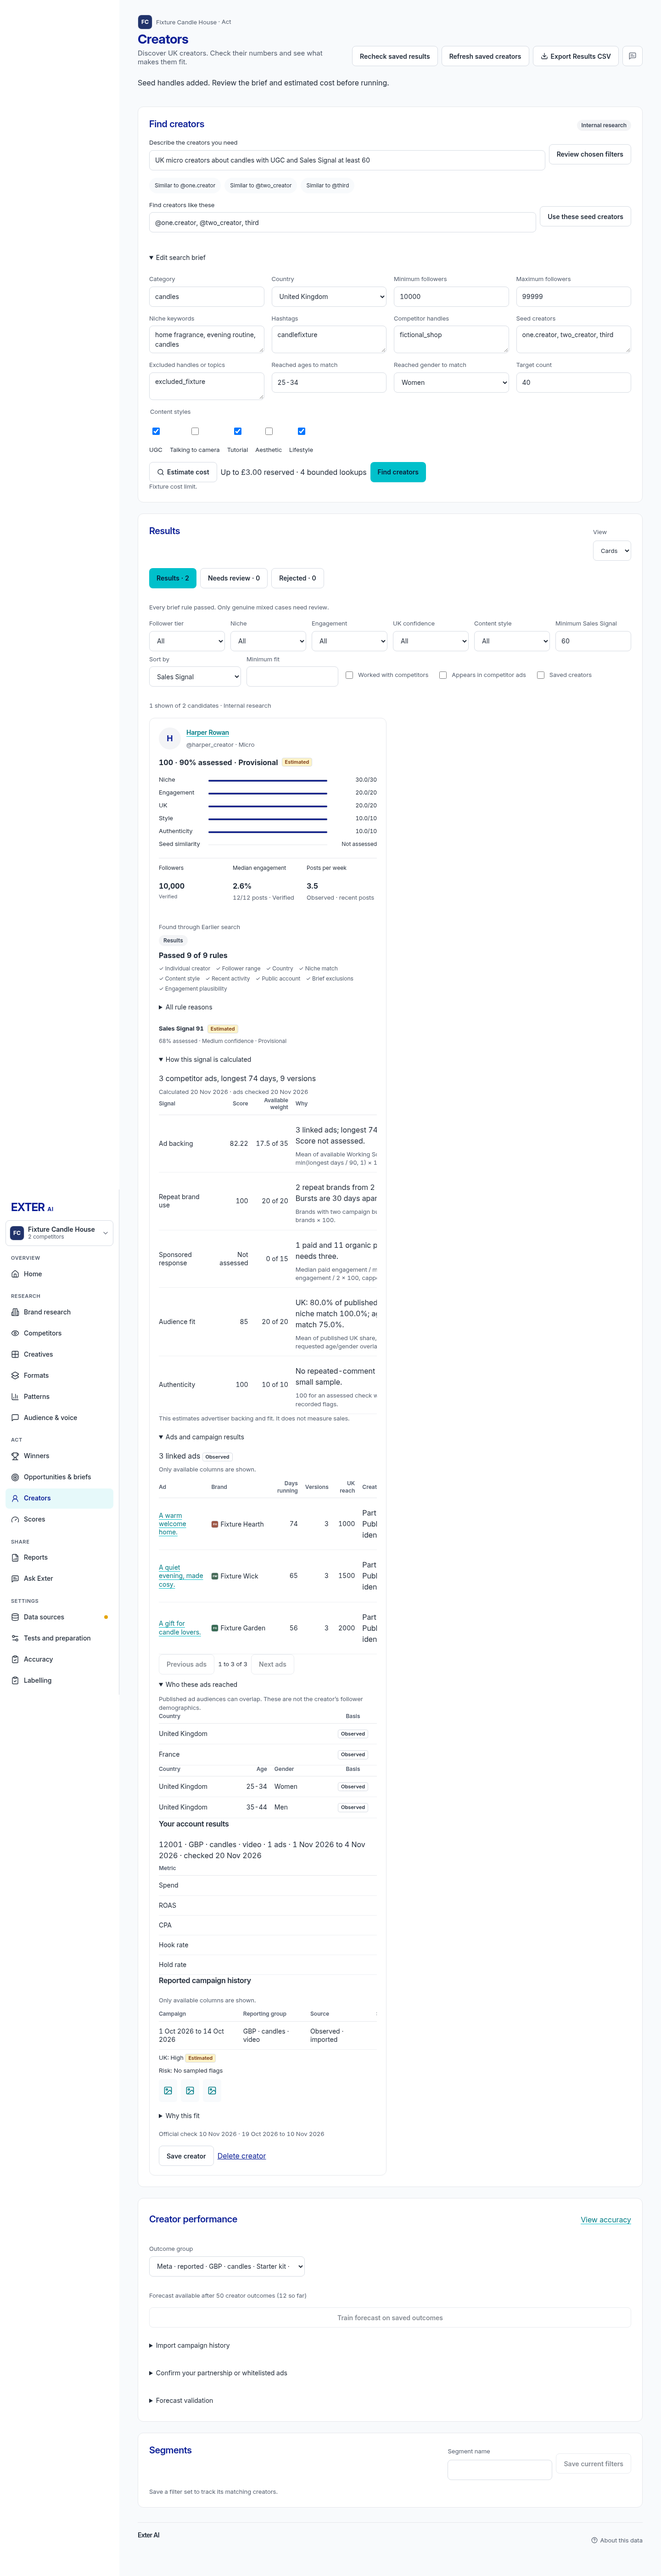
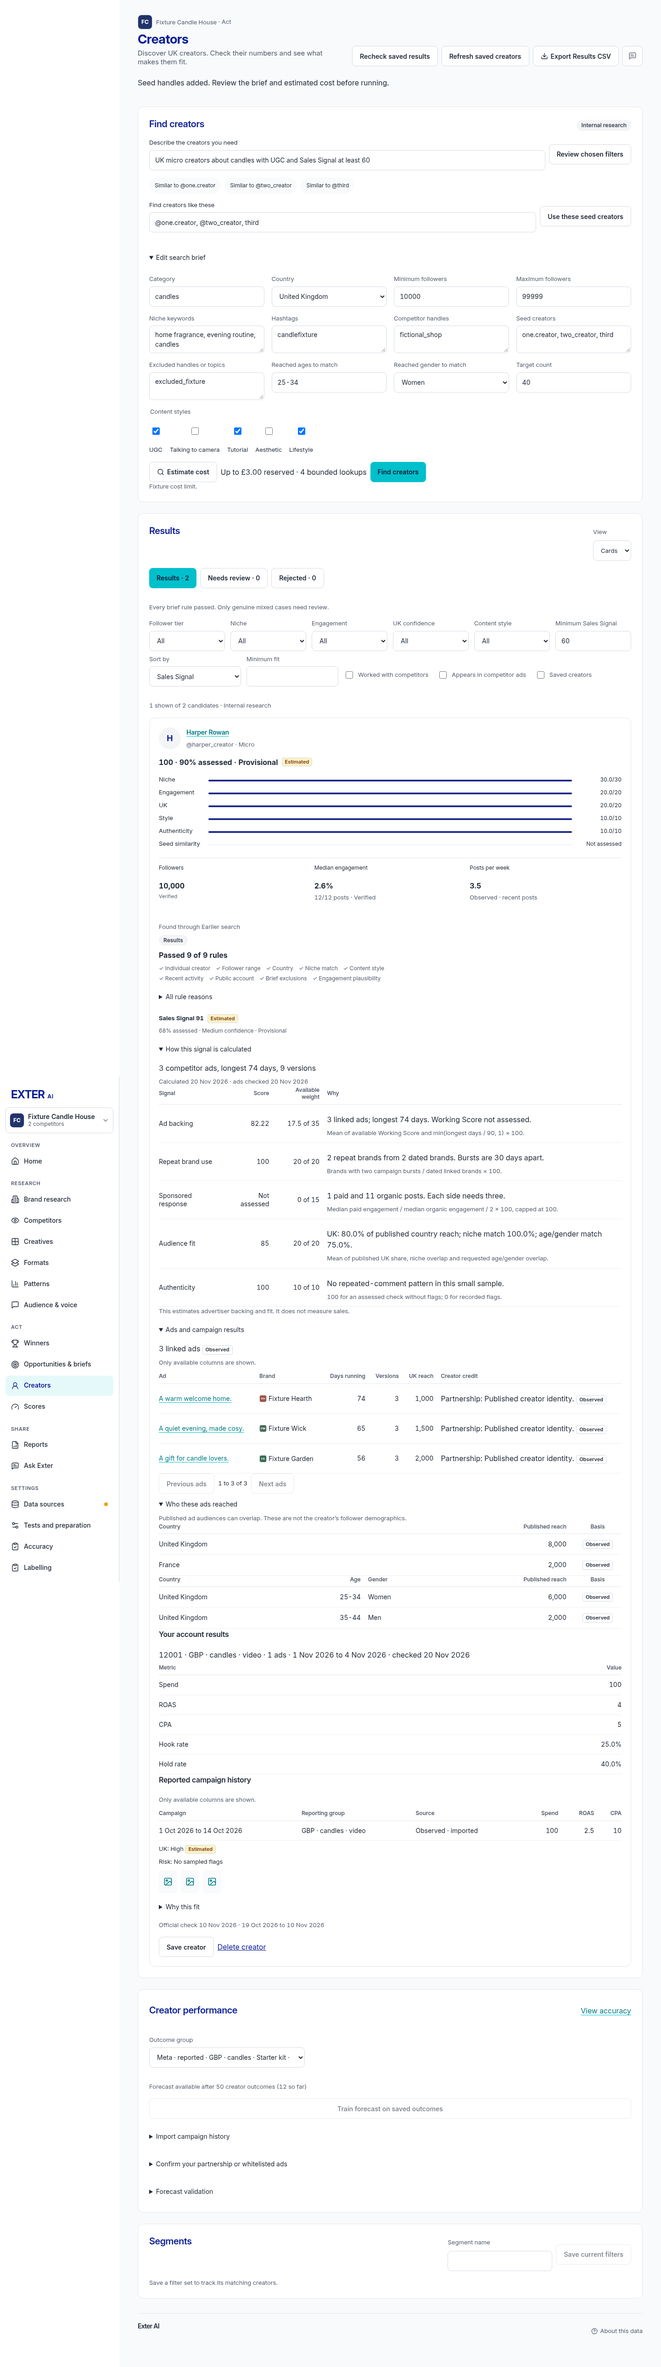
fix(CP-02): expand creator research tables for readable results

diff --git a/src/components/workspace/CreatorPerformance.tsx b/src/components/workspace/CreatorPerformance.tsx
@@ -20,15 +20,15 @@ export function CreatorPerformanceDetailView({workspaceId,handle,signal}:{worksp
  useEffect(()=>{if(!open)return;const controller=new AbortController();setError('');api<CreatorPerformanceDetail>(`/api/creator-performance/creator?${new URLSearchParams({workspaceId,handle,offset:String(offset)})}`,undefined,{signal:controller.signal}).then(setValue).catch(e=>{if(!controller.signal.aborted)setError(e.message);});return()=>controller.abort();},[open,workspaceId,handle,offset]);
  return <div className="creator-performance-detail"><CreatorSalesBreakdown signal={signal}/><details onToggle={e=>setOpen(e.currentTarget.open)}><summary>Ads and campaign results</summary>{error?<p role="alert">{error}</p>:!value?<p className="reference-muted">Reading saved ad results…</p>:<>
  {!value.ads.length?<p className="reference-muted">No ads directly credit this creator yet.</p>:<><p>{value.totalAds.toLocaleString('en-GB')} linked ads <DataLabel basis="Observed"/></p><DataTable caption="Ads featuring this creator" basis="Observed" showBasis={false} rows={value.ads} rowKey={r=>r.brandId+':'+r.adId} columns={[
- {key:'ad',label:'Ad',value:r=>r.title,render:r=><a href={`/?view=creative&brandId=${encodeURIComponent(workspaceId)}&id=${encodeURIComponent(r.adId)}`}>{r.title}</a>},{key:'brand',label:'Brand',value:r=>r.brandName,render:r=><BrandName name={r.brandName} size={16}/>},{key:'days',label:'Days running',align:'number',value:r=>r.days},{key:'versions',label:'Versions',align:'number',value:r=>r.versions},{key:'reach',label:'UK reach',align:'number',value:r=>countryReach(r.reach??undefined)},{key:'working',label:'Working Score',align:'number',value:r=>r.workingScore},{key:'proof',label:'Creator credit',value:r=>r.credits.map(c=>c.kind).join(', '),render:r=><>{r.credits.map((c,i)=><p key={i}>{c.kind}: {c.quote} <DataLabel basis={c.basis}/>{c.seconds!==null?` · ${Math.floor(c.seconds/60)}:${String(Math.floor(c.seconds%60)).padStart(2,'0')}`:''}</p>)}</>}
+ {key:'ad',label:'Ad',value:r=>r.title,render:r=><a href={`/?view=creative&brandId=${encodeURIComponent(workspaceId)}&id=${encodeURIComponent(r.adId)}`}>{r.title}</a>},{key:'brand',label:'Brand',value:r=>r.brandName,render:r=><BrandName name={r.brandName} size={16}/>},{key:'days',label:'Days running',align:'number',value:r=>r.days,render:r=>number(r.days)},{key:'versions',label:'Versions',align:'number',value:r=>r.versions,render:r=>number(r.versions)},{key:'reach',label:'UK reach',align:'number',value:r=>countryReach(r.reach??undefined),render:r=>number(countryReach(r.reach??undefined))},{key:'working',label:'Working Score',align:'number',value:r=>r.workingScore},{key:'proof',label:'Creator credit',value:r=>r.credits.map(c=>c.kind).join(', '),render:r=><>{r.credits.map((c,i)=><p key={i}>{c.kind}: {c.quote} <DataLabel basis={c.basis}/>{c.seconds!==null?` · ${Math.floor(c.seconds/60)}:${String(Math.floor(c.seconds%60)).padStart(2,'0')}`:''}</p>)}</>}
  ]}/><div className="reference-actions"><button className="button secondary" disabled={!offset} onClick={()=>setOffset(Math.max(0,offset-48))}>Previous ads</button><span>{offset+1} to {offset+value.ads.length} of {value.totalAds}</span><button className="button secondary" disabled={offset+48>=value.totalAds} onClick={()=>setOffset(offset+48)}>Next ads</button></div></>}
- <details><summary>Who these ads reached</summary><p className="reference-muted">Published ad audiences can overlap. These are not the creator’s follower demographics.</p>{!(value.signal?.stats.countries.length||value.signal?.stats.demographics.length)?<p className="reference-muted">No country, age or gender reach is published for these ads.</p>:<><DataTable caption="Published reach by country" rows={value.signal?.stats.countries??[]} rowKey={r=>r.country} basis="Observed" columns={[{key:'country',label:'Country',value:r=>countryName(r.country)},{key:'reach',label:'Published reach',align:'number',value:r=>r.reach}]}/><DataTable caption="Published reach by age and gender" rows={value.signal?.stats.demographics??[]} rowKey={r=>`${r.country}:${r.age}:${r.gender}`} basis="Observed" columns={[{key:'country',label:'Country',value:r=>countryName(r.country)},{key:'age',label:'Age',value:r=>r.age},{key:'gender',label:'Gender',value:r=>r.gender==='female'?'Women':r.gender==='male'?'Men':'Not specified'},{key:'reach',label:'Published reach',align:'number',value:r=>r.reach}]}/></>}</details>
+ <details><summary>Who these ads reached</summary><p className="reference-muted">Published ad audiences can overlap. These are not the creator’s follower demographics.</p>{!(value.signal?.stats.countries.length||value.signal?.stats.demographics.length)?<p className="reference-muted">No country, age or gender reach is published for these ads.</p>:<><DataTable caption="Published reach by country" rows={value.signal?.stats.countries??[]} rowKey={r=>r.country} basis="Observed" columns={[{key:'country',label:'Country',value:r=>countryName(r.country)},{key:'reach',label:'Published reach',align:'number',value:r=>r.reach,render:r=>number(r.reach)}]}/><DataTable caption="Published reach by age and gender" rows={value.signal?.stats.demographics??[]} rowKey={r=>`${r.country}:${r.age}:${r.gender}`} basis="Observed" columns={[{key:'country',label:'Country',value:r=>countryName(r.country)},{key:'age',label:'Age',value:r=>r.age},{key:'gender',label:'Gender',value:r=>r.gender==='female'?'Women':r.gender==='male'?'Men':'Not specified'},{key:'reach',label:'Published reach',align:'number',value:r=>r.reach,render:r=>number(r.reach)}]}/></>}</details>
  <h4>Your account results</h4>{!value.owned.length?<p className="reference-muted">Connect your account, then confirm the creator’s partnership or whitelisted ad IDs below.</p>:value.owned.map((r,i)=><div key={i}><p>{r.account} · {r.currency} · {r.category} · {r.format} · {r.ads} ads · {ukDate(r.from)} to {ukDate(r.to)} · checked {ukDate(r.checkedAt)}</p><DataTable caption="Owned creator performance" rows={['Spend','ROAS','CPA','Hook rate','Hold rate'] as const} rowKey={r=>r} basis="Observed" showBasis={false} hideUnavailable={false} columns={[{key:'metric',label:'Metric',value:r=>r},{key:'value',label:'Value',align:'number',value:key=>r.metrics[key].value===null?r.metrics[key].status==='too early'?'Not enough data':'Not synced':['Hook rate','Hold rate'].includes(key)?pct(r.metrics[key].value):number(r.metrics[key].value)}]}/></div>)}
  <h4>Reported campaign history</h4>{!value.campaigns.length?<p className="reference-muted">No campaign outcomes are saved for this creator.</p>:<CampaignTable rows={value.campaigns}/>}
  {value.forecasts.map(({cohort,value:f})=><div key={cohort}><p>{JSON.parse(cohort).join(' · ').replaceAll('_',' ')}</p><strong>Predicted ROAS {f.range.map(v=>v.toFixed(2)+'×').join(' to ')}</strong><DataLabel basis="Modelled"/><p>90% range · validation AUC {number(f.validation.auc)} · {f.validation.ads.toLocaleString('en-GB')} test ads</p><small>{f.version} · checked {ukDate(f.validation.checkedAt)}</small></div>)}
  </>}</details></div>;
 }
-function CampaignTable({rows}:{rows:CreatorCampaign[]}){return <DataTable caption="Creator campaign outcomes" basis="Observed" showBasis={false} rows={rows} rowKey={r=>r.id} columns={[{key:'dates',label:'Campaign',value:r=>`${ukDate(r.from)} to ${ukDate(r.to)}`},{key:'scope',label:'Reporting group',value:r=>`${r.scope.currency} · ${r.scope.category} · ${r.scope.format}`},{key:'source',label:'Source',value:r=>r.source==='Imported'?'Observed · imported':'Observed · account'},{key:'spend',label:'Spend',align:'number',value:r=>r.spend},{key:'roas',label:'ROAS',align:'number',value:r=>r.roas},{key:'cpa',label:'CPA',align:'number',value:r=>r.cpa},{key:'hook',label:'Hook rate',align:'number',value:r=>r.hookRate,render:r=>pct(r.hookRate)},{key:'hold',label:'Hold rate',align:'number',value:r=>r.holdRate,render:r=>pct(r.holdRate)}]}/>;}
+function CampaignTable({rows}:{rows:CreatorCampaign[]}){return <DataTable caption="Creator campaign outcomes" basis="Observed" showBasis={false} rows={rows} rowKey={r=>r.id} columns={[{key:'dates',label:'Campaign',value:r=>`${ukDate(r.from)} to ${ukDate(r.to)}`},{key:'scope',label:'Reporting group',value:r=>`${r.scope.currency} · ${r.scope.category} · ${r.scope.format}`},{key:'source',label:'Source',value:r=>r.source==='Imported'?'Observed · imported':'Observed · account'},{key:'spend',label:'Spend',align:'number',value:r=>r.spend,render:r=>number(r.spend)},{key:'roas',label:'ROAS',align:'number',value:r=>r.roas,render:r=>number(r.roas)},{key:'cpa',label:'CPA',align:'number',value:r=>r.cpa,render:r=>number(r.cpa)},{key:'hook',label:'Hook rate',align:'number',value:r=>r.hookRate,render:r=>pct(r.hookRate)},{key:'hold',label:'Hold rate',align:'number',value:r=>r.holdRate,render:r=>pct(r.holdRate)}]}/>;}
 export function CreatorPerformanceTools({workspaceId,category,refresh}:{workspaceId:string;category:string;refresh?:()=>void}){
  const [data,setData]=useState<CreatorPerformanceWorkspace>({accounts:[],cohorts:[],models:[]}),[error,setError]=useState(''),[notice,setNotice]=useState(''),[busy,setBusy]=useState(false),[cohort,setCohort]=useState(''),[account,setAccount]=useState('reported'),[currency,setCurrency]=useState('GBP'),[product,setProduct]=useState(''),[topic,setTopic]=useState(category),[ownedOpen,setOwnedOpen]=useState(false);
  useEffect(()=>setTopic(category),[category]);

diff --git a/src/components/workspace/CreatorPerformance.css b/src/components/workspace/CreatorPerformance.css
@@ -3,3 +3,4 @@
 .creator-research-card{grid-template-columns:minmax(0,1fr)}
 .creator-research-proof,.creator-performance-detail :is(details,.ui-data-table),.creator-sales :is(details,.ui-data-table){min-width:0;max-width:100%}
 .creator-performance-detail .ui-table-scroll,.creator-sales .ui-table-scroll{width:100%;max-width:100%;overflow:auto}
+.creator-research-card:has(.creator-performance-detail details[open]){grid-column:1/-1;grid-row:auto;grid-template-rows:auto}

diff --git a/tests/ui_creator_performance_browser.py b/tests/ui_creator_performance_browser.py
@@ -51,6 +51,10 @@ with sync_playwright() as pw:
  page.get_by_text('How this signal is calculated',exact=True).click();expect(page.get_by_role('table',name='Sales Signal breakdown')).to_be_visible()
  page.get_by_text('Ads and campaign results',exact=True).click();expect(page.get_by_role('table',name='Ads featuring this creator')).to_be_visible();expect(page.get_by_role('table',name='Owned creator performance')).to_be_visible();expect(page.get_by_role('table',name='Creator campaign outcomes')).to_be_visible()
  page.get_by_text('Who these ads reached',exact=True).click();expect(page.get_by_role('table',name='Published reach by age and gender')).to_be_visible()
+ expect(page.get_by_role('table',name='Published reach by country',exact=True)).to_contain_text('8,000')
+ assert page.locator('.creator-research-card').first.evaluate("e=>e.getBoundingClientRect().width/e.parentElement.getBoundingClientRect().width>.95"),'Expanded research must use the full row.'
+ for caption in ['Sales Signal breakdown','Published reach by country','Owned creator performance']:
+  assert page.get_by_role('table',name=caption,exact=True).evaluate("e=>e.getBoundingClientRect().width<=e.parentElement.getBoundingClientRect().width+1"),caption
  for width in [1440,390]:
   page.set_viewport_size({'width':width,'height':1100});assert not page.evaluate('document.documentElement.scrollWidth>innerWidth'),page.evaluate("()=>[...document.querySelectorAll('main *')].filter(e=>e.getBoundingClientRect().right>innerWidth+1).slice(0,20).map(e=>({tag:e.tagName,cls:e.className,width:e.getBoundingClientRect().width,text:e.textContent.slice(0,90)}))");page.locator('.creator-research-card').first.scroll_into_view_if_needed();page.screenshot(path=str(OUT/f'Creator-detail-{width}.png'),full_page=True)
  page.get_by_text('Import campaign history',exact=True).click();page.get_by_label('Product or price tier',exact=True).fill('Starter kit')

diff --git a/.agent/plans/creator-performance.md b/.agent/plans/creator-performance.md
@@ -36,7 +36,8 @@ training, not a weaker replacement for the accuracy publication gates.
 
 ## Outcomes and retrospective
 Core implementation and focused calculation, API and database fixtures pass.
-Browser checks found and fixed a narrow-screen expanded-table overflow.
+Browser checks found and fixed expanded-table overflow. Open details span the
+full result row on desktop; narrower screens keep scoped table scrolling.
 1280/1440/1920/390px checks pass, without external requests or page errors.
 Accuracy and the expanded creator breakdown also pass at 1440/390px.
 The full 108-test database suite passed in CI, including existing large workspaces.
